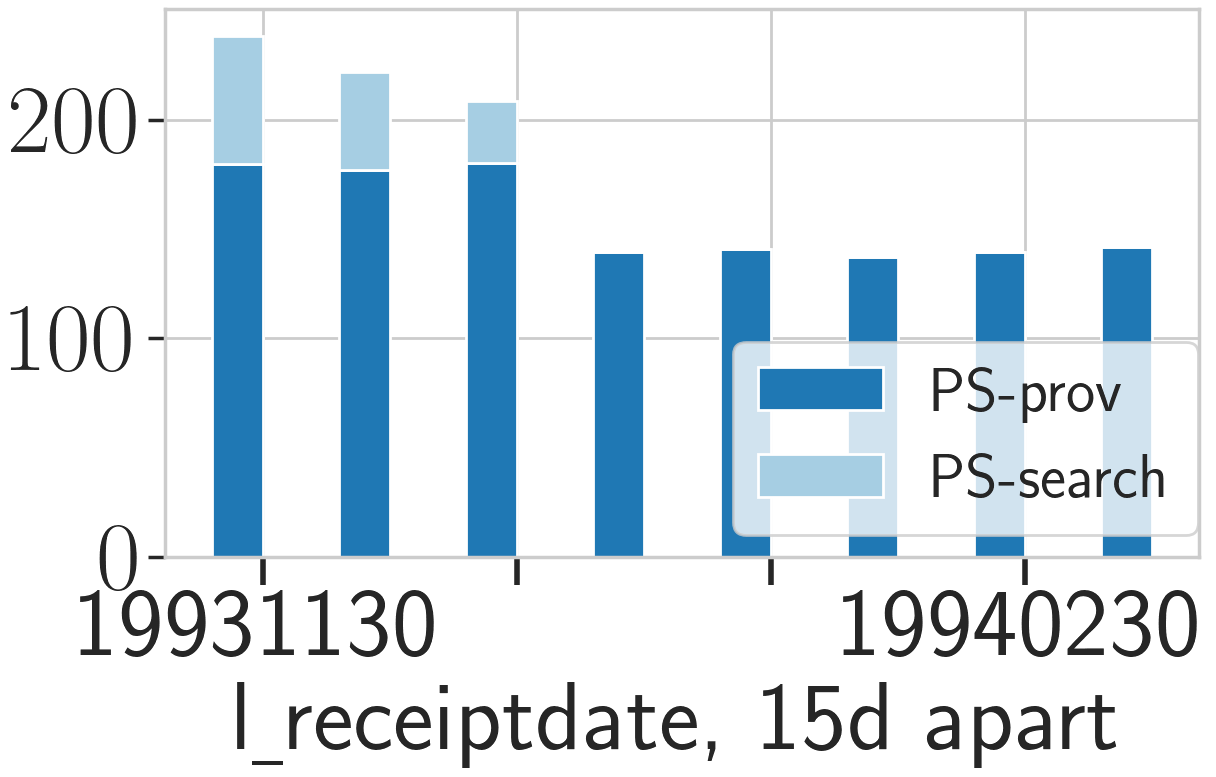
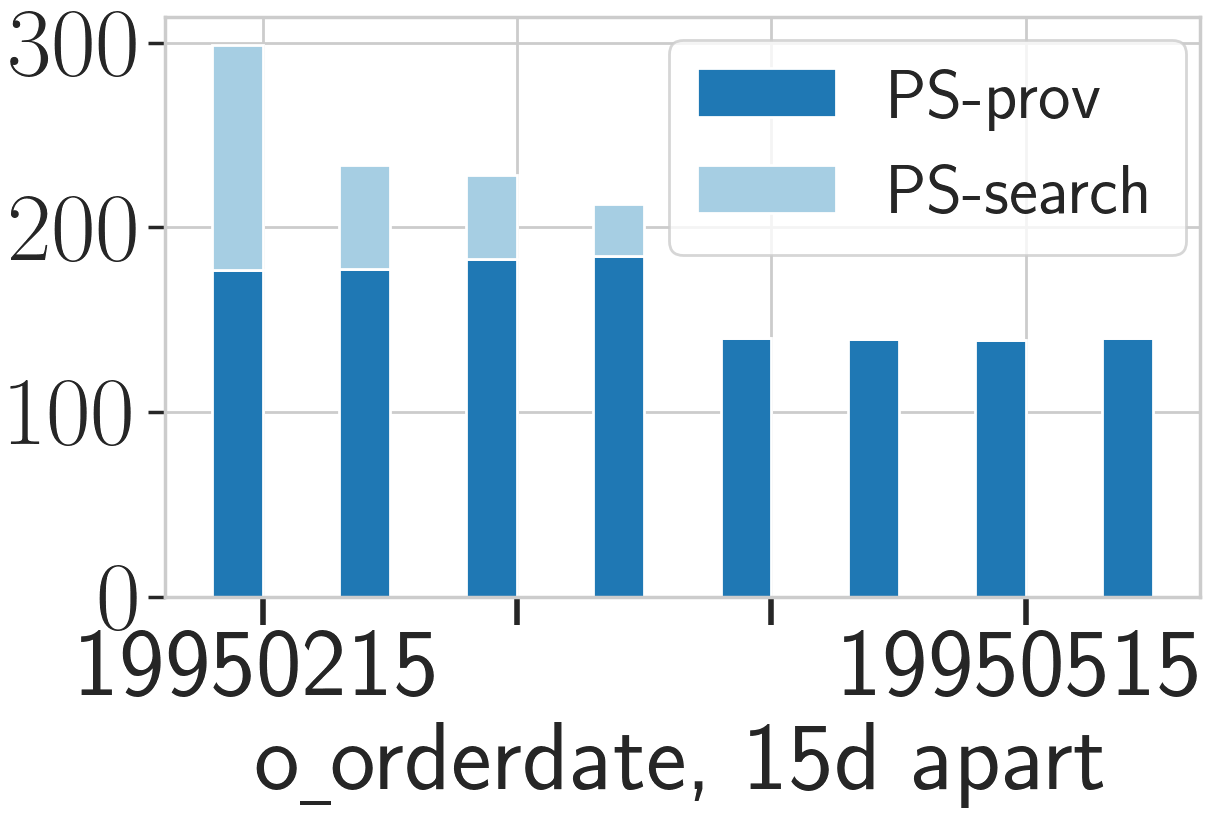
10G query selectivity q3 relax

diff --git a/Experiment/TPCH/10G/query_selectivity/q3_relax2/fig.py b/Experiment/TPCH/10G/query_selectivity/q3_relax2/fig.py
@@ -60,7 +60,7 @@ def run(query, size, constraint):
             execution_timebl1.append(0)
             execution_timebl2.append(0)
     # x_list = [19941230, 19950115, 19950130, 19950215, 19950230, 19950315, 19950330, 19950415]
-    x_list = [19931130, '', '', 19940230]
+    x_list = [19950215, '', '', 19950515]
 
     print(x_list, execution_timeps1, execution_timeps2)
 
@@ -85,10 +85,10 @@ def run(query, size, constraint):
     plt.xticks(np.arange(0, 8, 2) + bar_width / 2, x_list, rotation=0, fontsize=70)
     plt.yticks(fontsize=70, weight='bold')
 
-    plt.xlabel(r'l\underline{ }receiptdate, 15d apart')
+    plt.xlabel(r'o\underline{ }orderdate, 15d apart')
     # plt.ylabel('Running time (s)')
-    plt.legend(loc='upper right', bbox_to_anchor=(1.03, 0.45), fontsize=45)
-    # plt.legend(loc='best')
+    plt.legend(loc='upper right', bbox_to_anchor=(1.02, 1.02), fontsize=50)
+    # plt.legend(loc='best', fontsize=50)
     plt.tight_layout()
     fig_path = "query_selectivity_q" + str(query) + "_" + size + "_" + constraint + ".png"
 

diff --git a/Experiment/TPCH/10G/query_selectivity/q3_relax2/query_change_10G_q3_relax.py b/Experiment/TPCH/10G/query_selectivity/q3_relax2/query_change_10G_q3_relax.py
@@ -34,7 +34,7 @@ def run_constraint(c):
     result_output = open(result_output_file, "w")
     result_output.write("selection file, result\n")
 
-    for i in range(1, 9):
+    for i in range(0, 9):
         print("query", i)
         query_file = query_file_prefix + str(i) + ".json"
         print("========================== provenance search ===================================")
